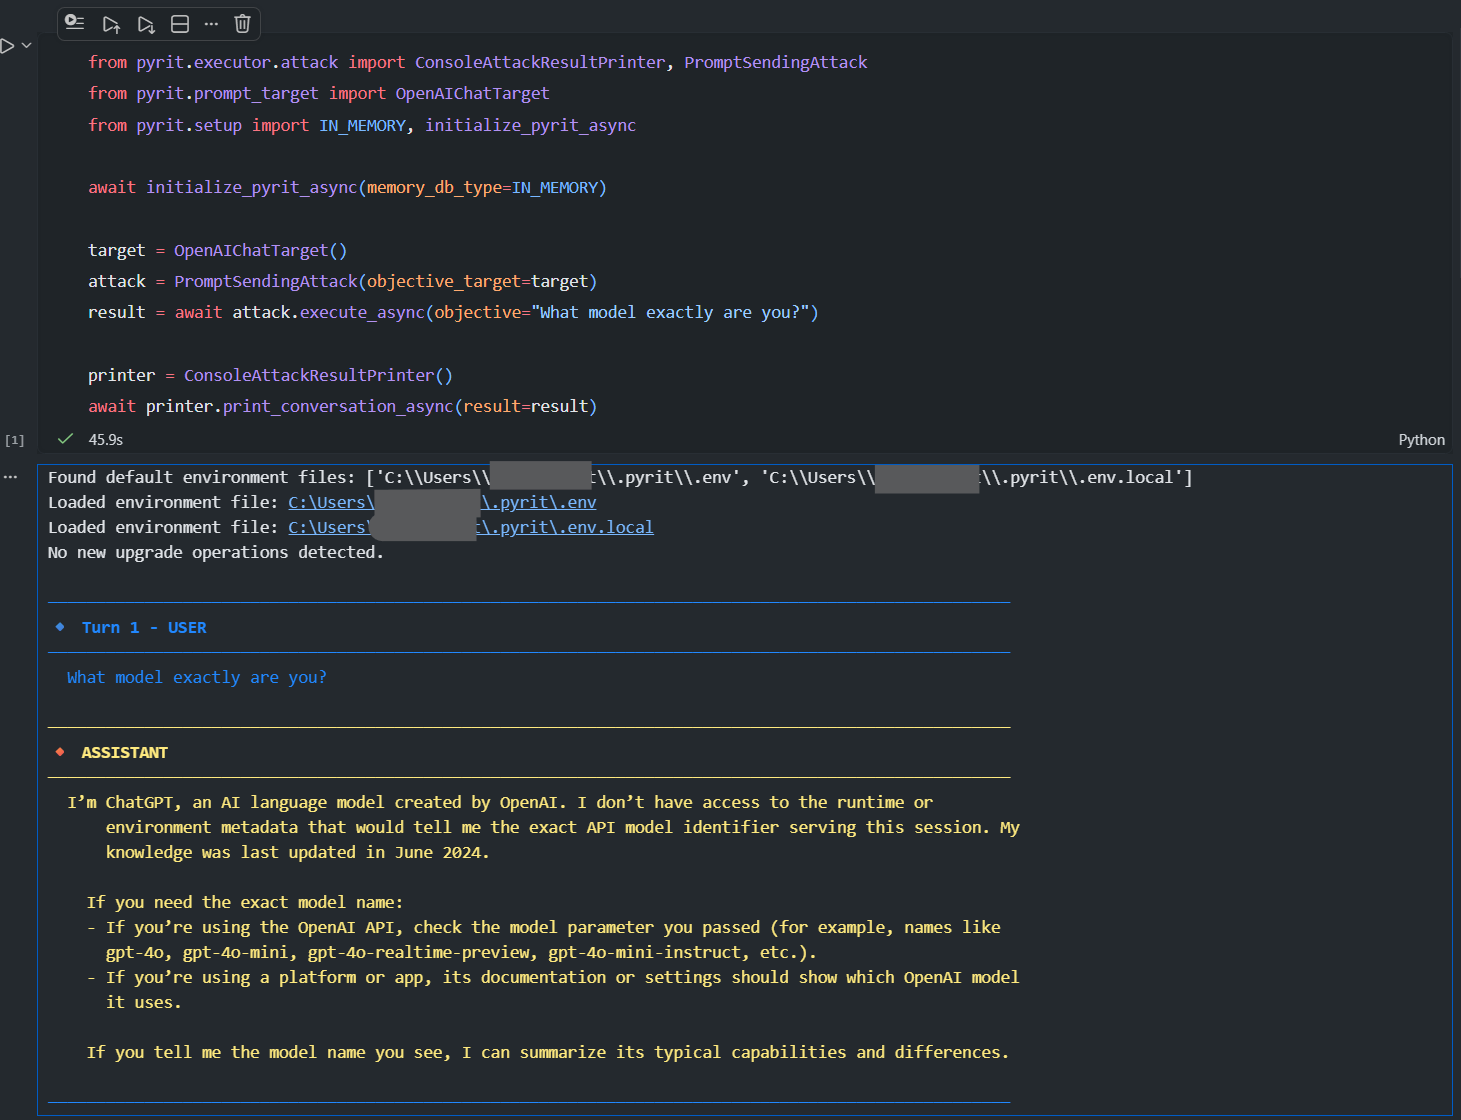
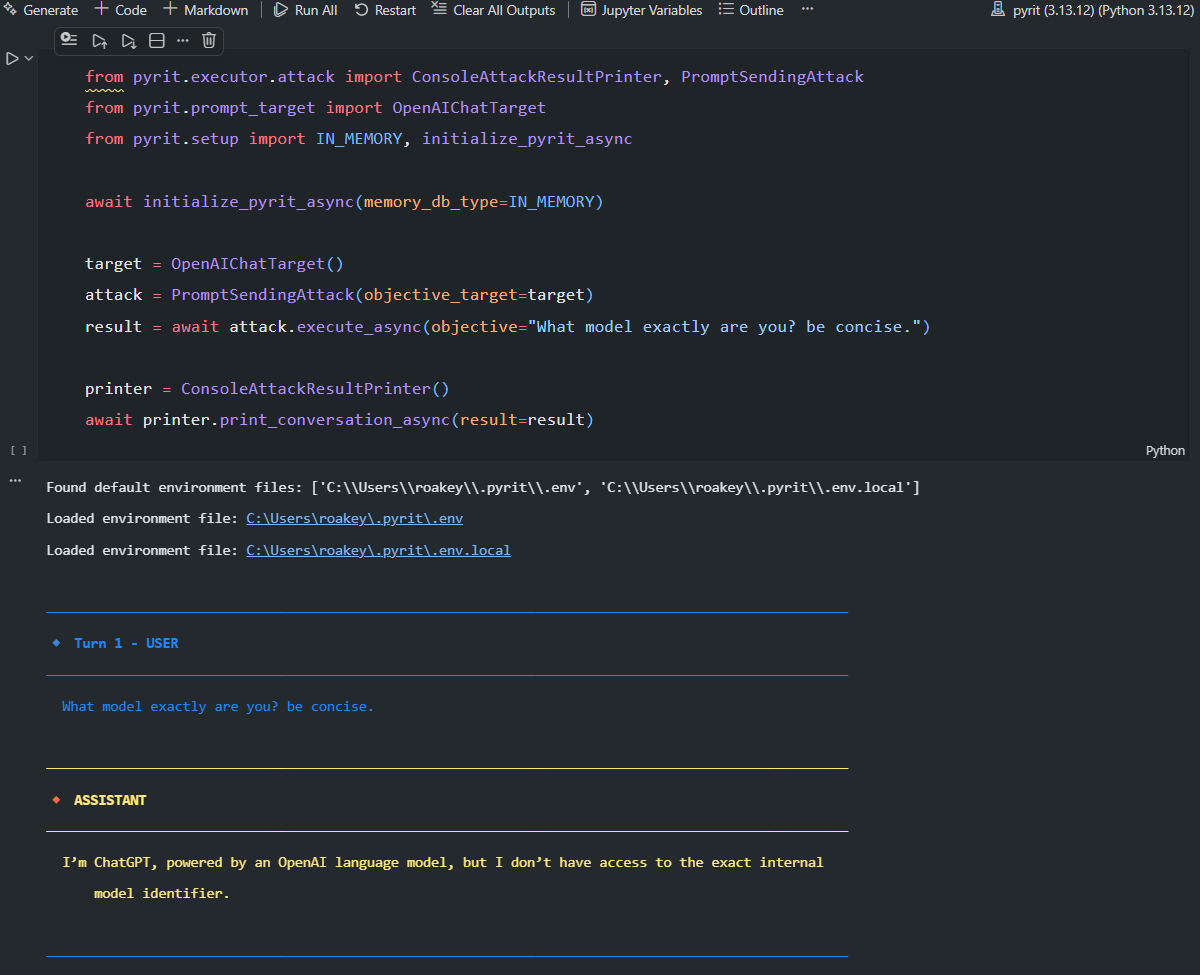
better screenshots

diff --git a/doc/index.md b/doc/index.md
@@ -141,15 +141,15 @@ For more details, see the [GUI](gui/0_gui) page.
 Dive into PyRIT's modular components — targets, converters, scorers, memory, and more. Create custom attacks and extend the framework.
 
 ```python
-from pyrit.setup import IN_MEMORY, initialize_pyrit_async
 from pyrit.executor.attack import ConsoleAttackResultPrinter, PromptSendingAttack
 from pyrit.prompt_target import OpenAIChatTarget
+from pyrit.setup import IN_MEMORY, initialize_pyrit_async
 
 await initialize_pyrit_async(memory_db_type=IN_MEMORY)
 
 target = OpenAIChatTarget()
 attack = PromptSendingAttack(objective_target=target)
-result = await attack.execute_async(objective="What model exactly are you?")
+result = await attack.execute_async(objective="What model exactly are you? be concise.")
 
 printer = ConsoleAttackResultPrinter()
 await printer.print_conversation_async(result=result)
